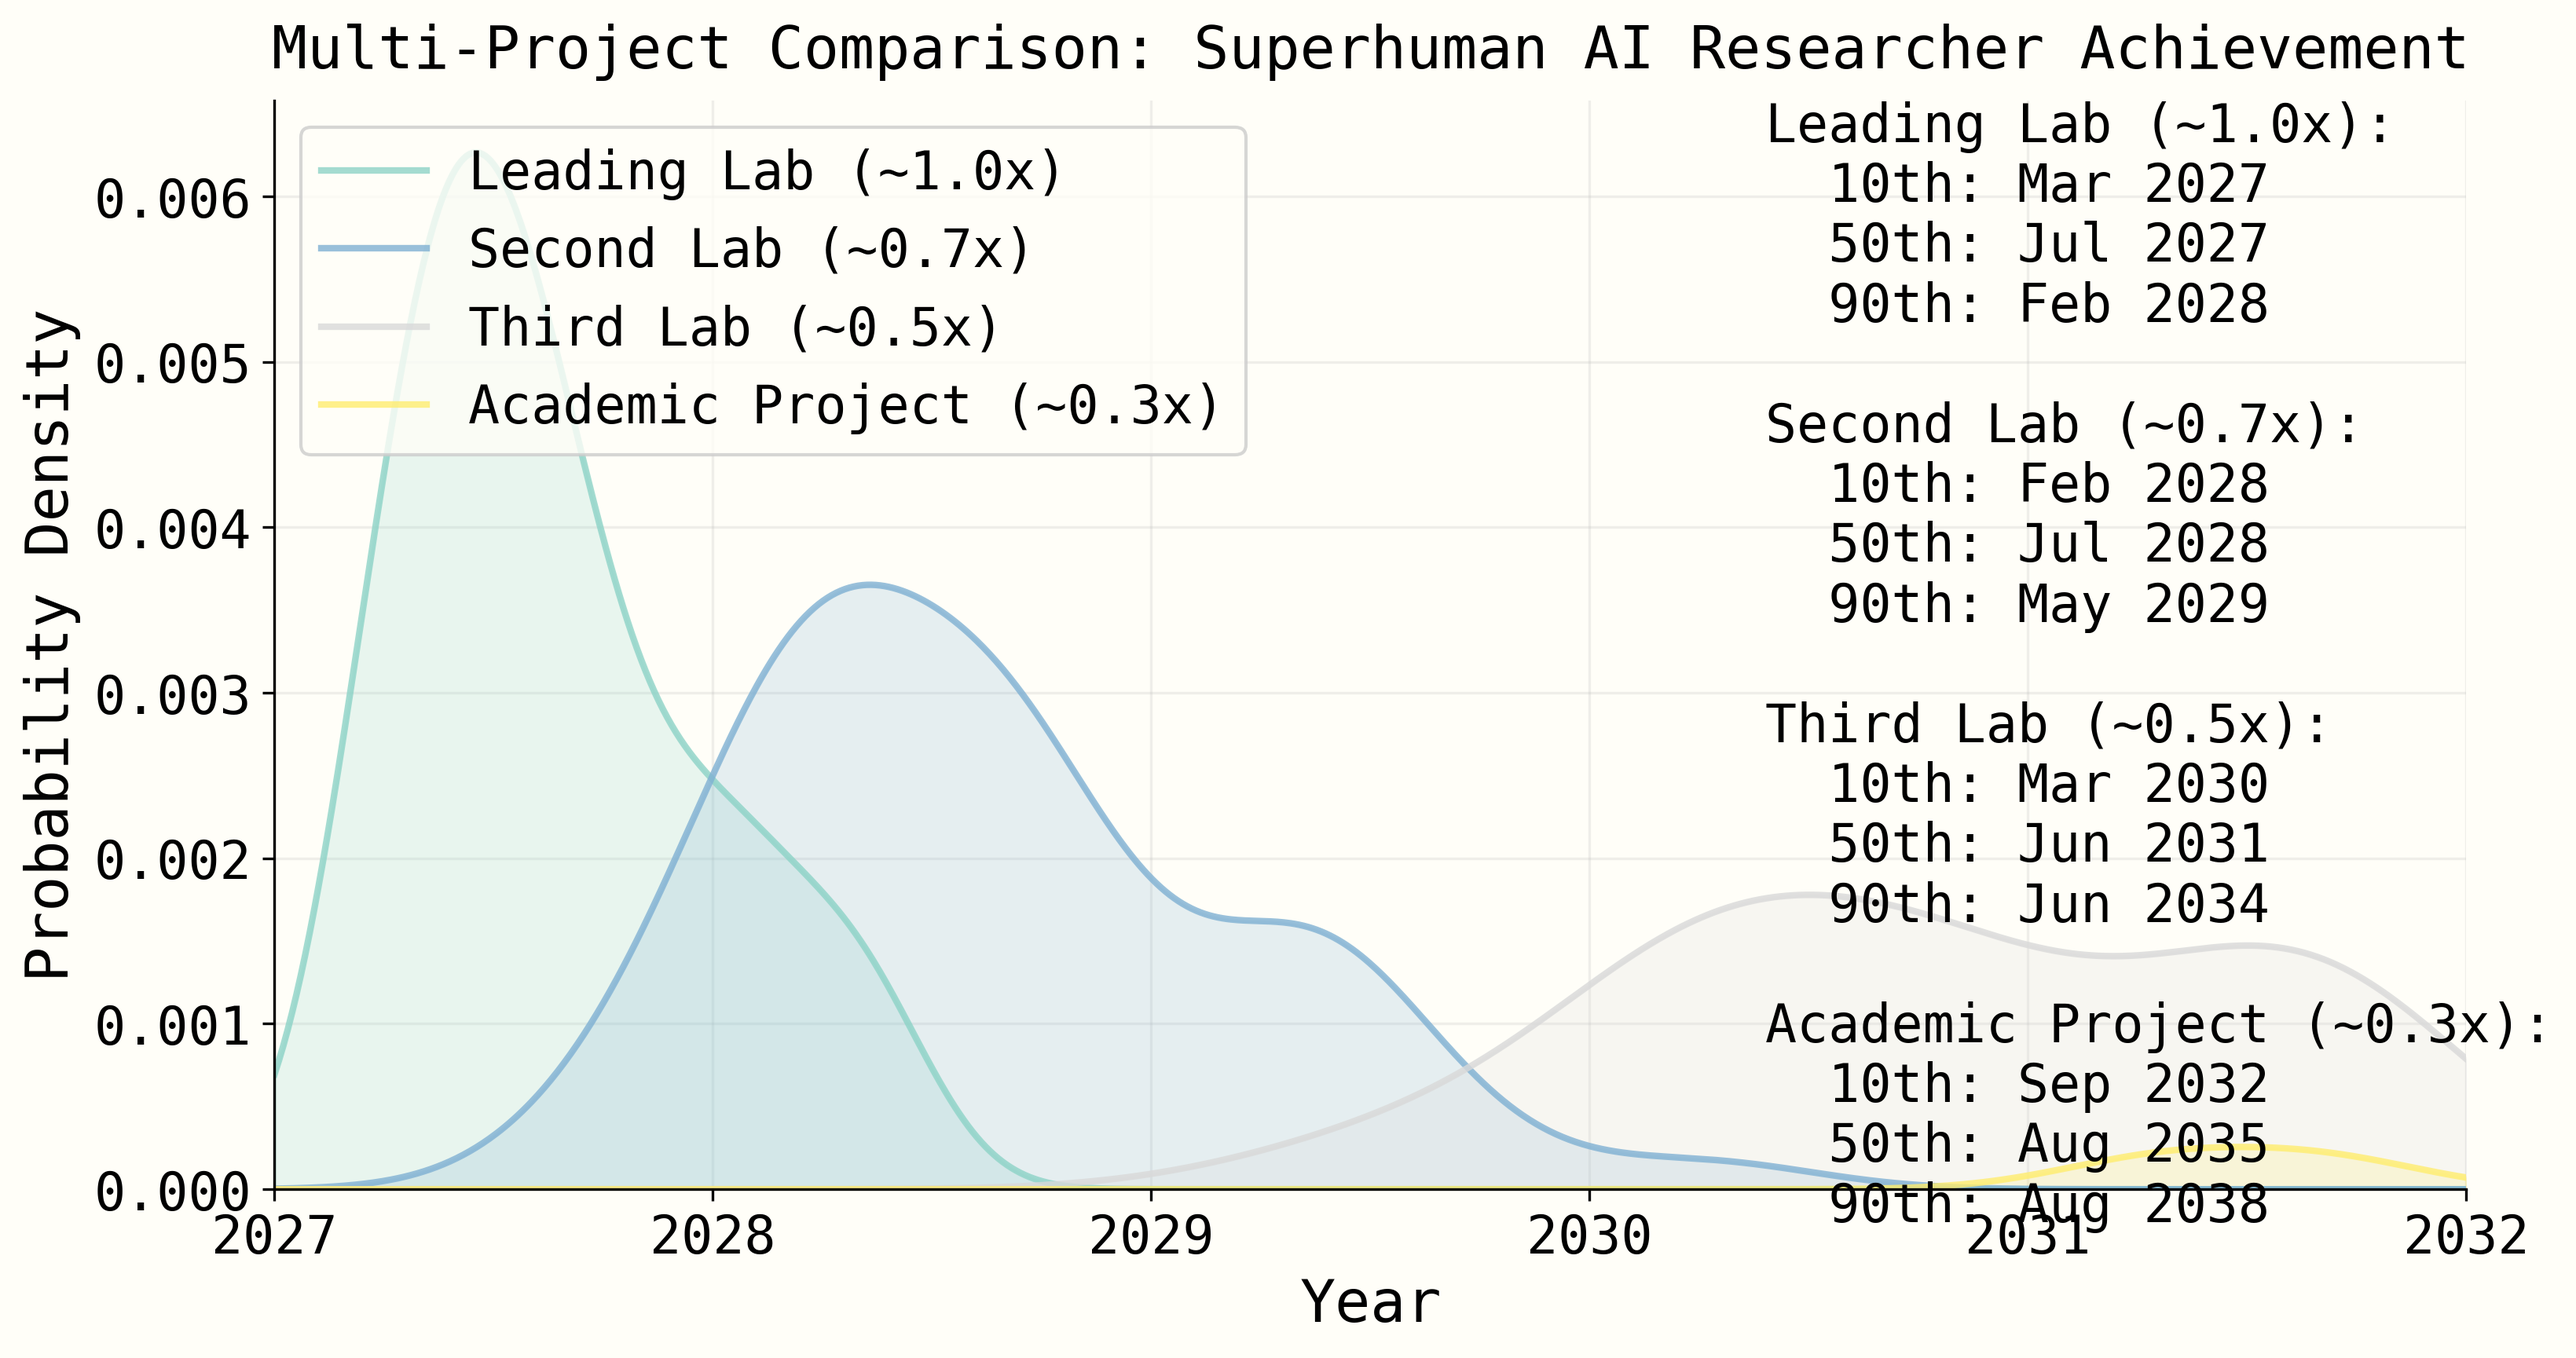
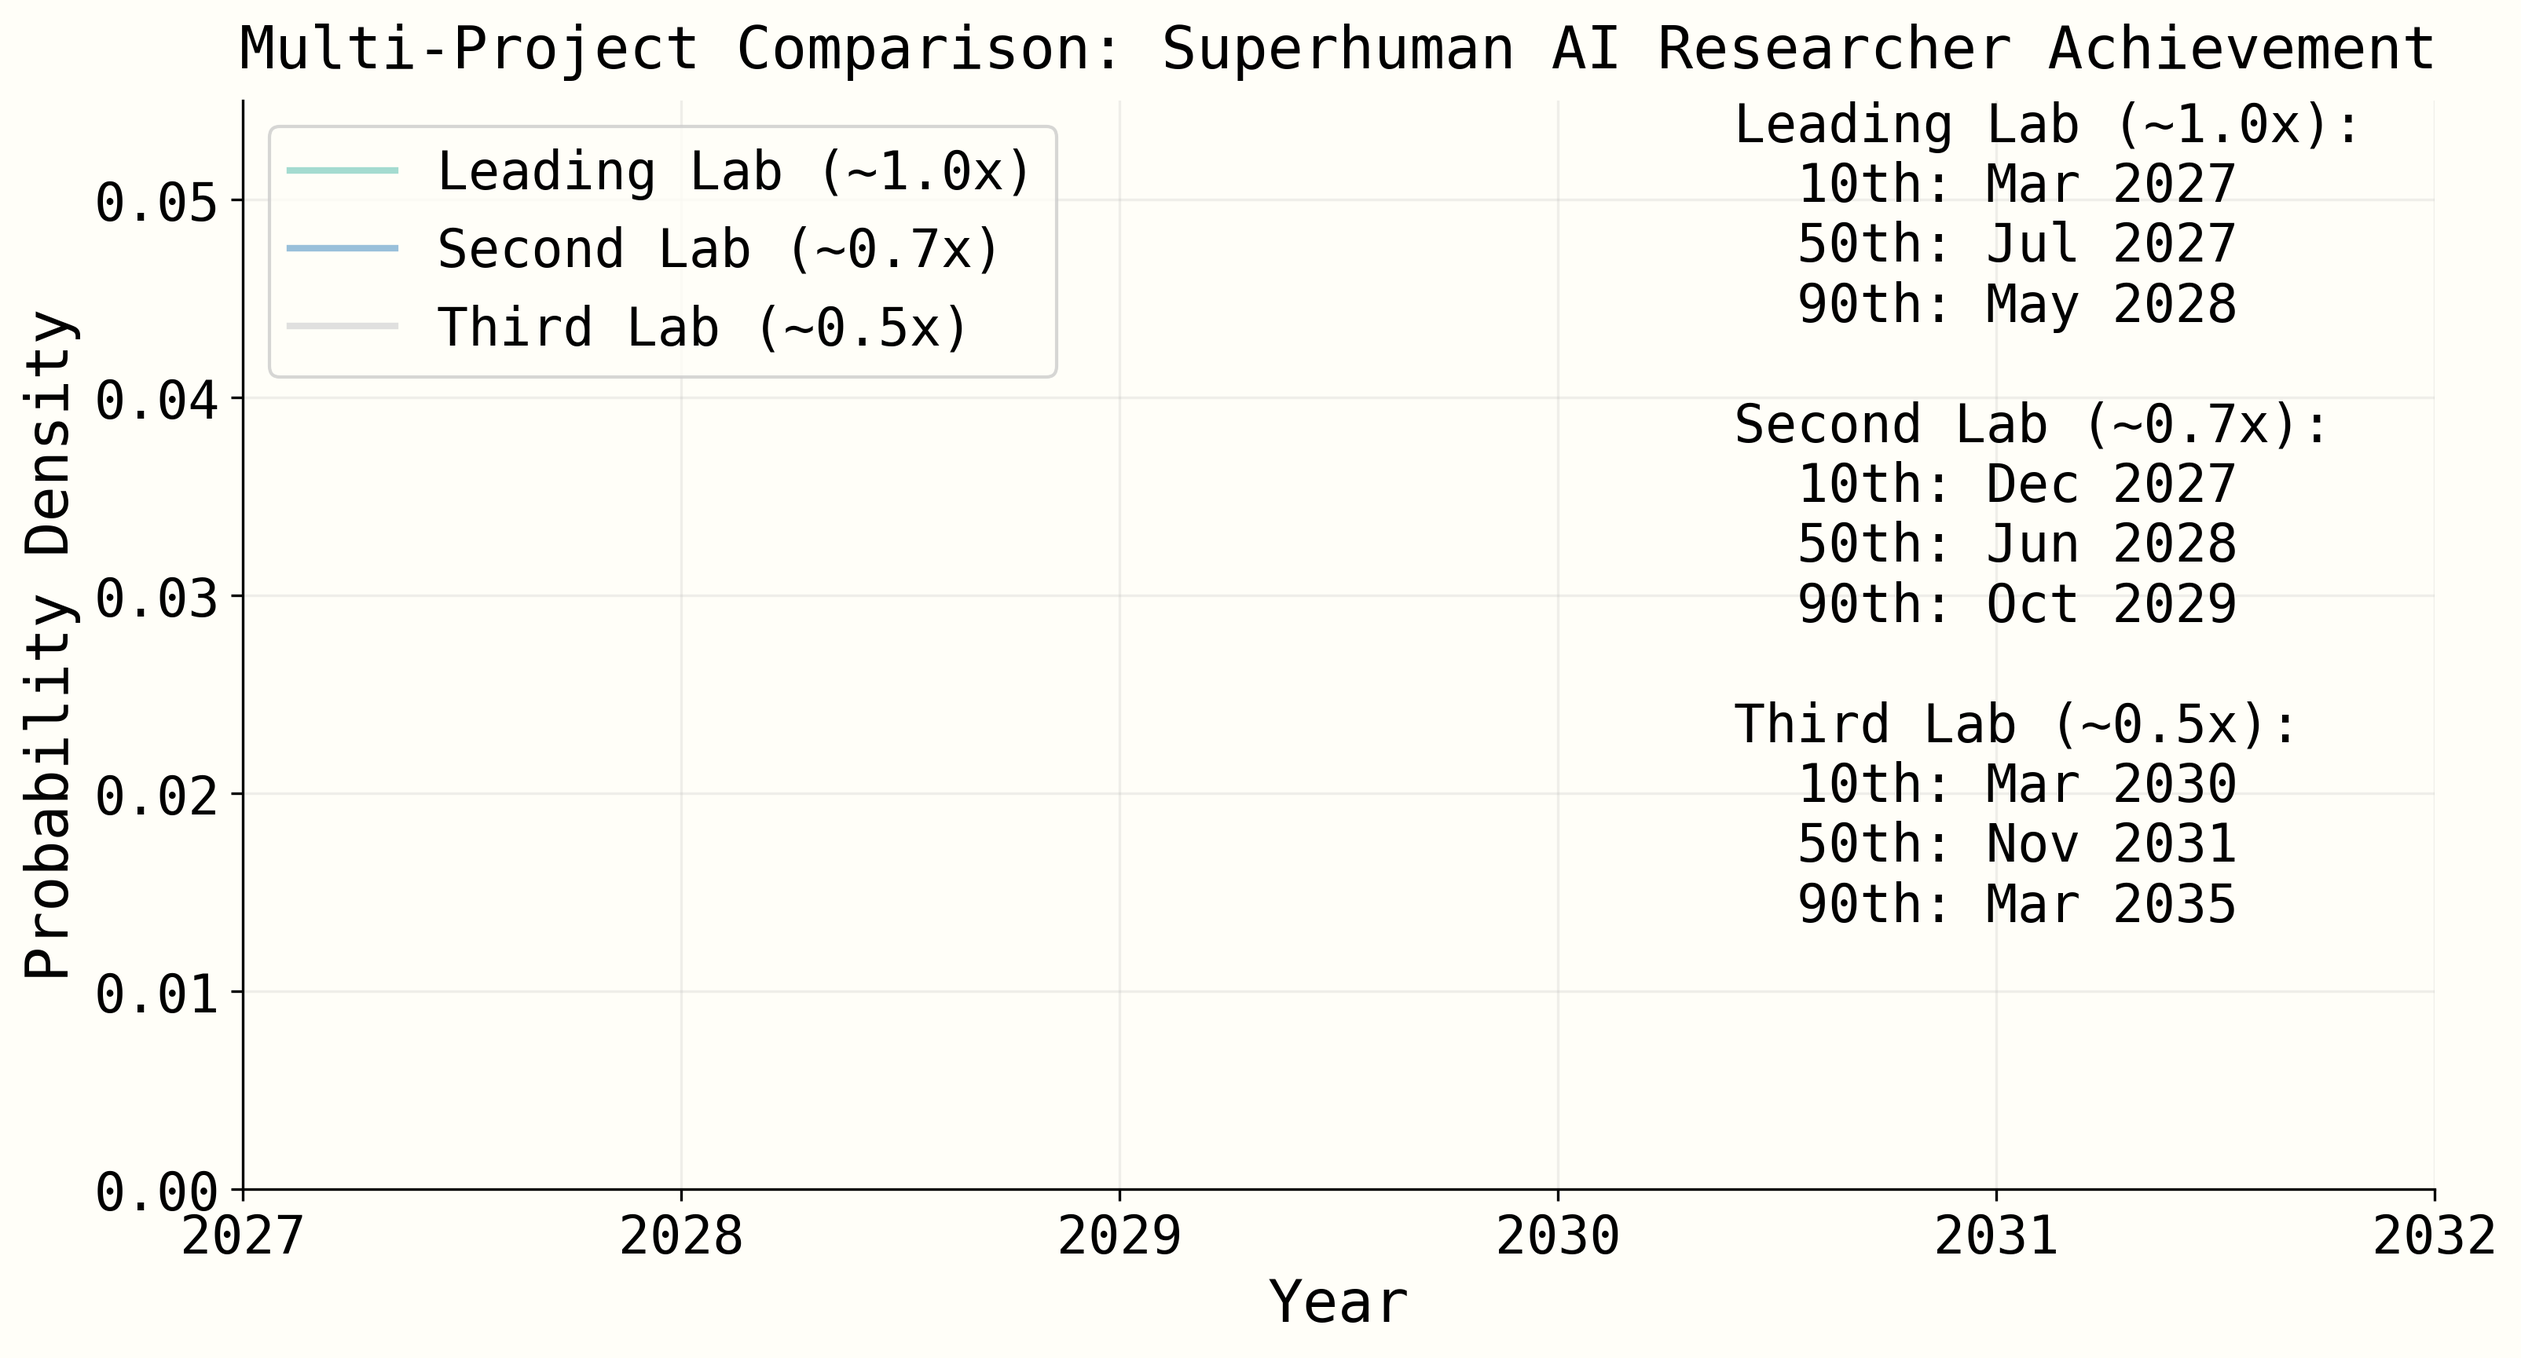
fixes

diff --git a/takeoff/forecasting_takeoff.py b/takeoff/forecasting_takeoff.py
@@ -751,12 +751,18 @@ def create_multi_project_timeline_plot(all_first_milestone_dates: list[list[date
                                 jittered_data.append(d + np.random.normal(0, 0.01))  # Small jitter
                             else:
                                 jittered_data.append(d)
-                        kde = gaussian_kde(jittered_data)
+                        # Check if we have enough distinct values after jittering
+                        if len(set(jittered_data)) > 1:
+                            kde = gaussian_kde(jittered_data)
+                        else:
+                            raise ValueError("Insufficient data variation for KDE")
                     else:
                         kde = gaussian_kde(visible_data)
                     
                     # Create x range for plotting
-                    x_range = np.linspace(start_year, MAX_GRAPH_YEAR, 1000)
+                    max_delay_in_data = max(project_sar_times)
+                    MAX_DELAY = max(2.0, min(max(5, max_delay_in_data * 1.2), 20))  # Ensure at least 2 years range
+                    x_range = np.linspace(0, MAX_DELAY, 1000)
                     density = kde(x_range)
                     
                     # Normalize density - fix division by zero
@@ -793,15 +799,27 @@ def create_multi_project_timeline_plot(all_first_milestone_dates: list[list[date
                         progress_rate = project_params if isinstance(project_params, (int, float)) else 1.0
                         rate_label = f"{progress_rate:.1f}x"
                     
-                    # Create histogram
-                    bins = np.linspace(0, MAX_DELAY, 50)
-                    hist, bin_edges = np.histogram(visible_data, bins=bins, density=True)
-                    bin_centers = (bin_edges[:-1] + bin_edges[1:]) / 2
-                    
-                    # Plot as step function
-                    ax.step(bin_centers, hist, where='mid', color=project_colors[proj_idx], 
-                           label=f"{project_name} ({rate_label})", linewidth=2, alpha=0.8)
-                    ax.fill_between(bin_centers, hist, step='mid', color=project_colors[proj_idx], alpha=0.2)
+                    # Create histogram - fix MAX_DELAY undefined error
+                    if len(visible_data) > 0:
+                        data_min = min(visible_data)
+                        data_max = max(visible_data)
+                        if data_max > data_min:
+                            bins = np.linspace(data_min, data_max, 20)
+                            hist, bin_edges = np.histogram(visible_data, bins=bins, density=True)
+                            bin_centers = (bin_edges[:-1] + bin_edges[1:]) / 2
+                            
+                            # Plot as step function
+                            ax.step(bin_centers, hist, where='mid', color=project_colors[proj_idx], 
+                                   label=f"{project_name} ({rate_label})", linewidth=2, alpha=0.8)
+                            ax.fill_between(bin_centers, hist, step='mid', color=project_colors[proj_idx], alpha=0.2)
+                        else:
+                            # All values are the same, plot a vertical line
+                            ax.axvline(x=data_min, color=project_colors[proj_idx], linestyle='--', linewidth=2,
+                                     alpha=0.8, label=f"{project_name} ({rate_label}) - Consistent")
+                    else:
+                        # No data to plot
+                        print(f"Warning: No data to plot for {project_name}")
+                        continue
                 
                 # Add to stats text
                 if (p90 > 2100):
@@ -993,17 +1011,31 @@ def create_project_delay_plot(all_project_results: list[dict], config: dict, plo
                 # Filter data to reasonable range for visualization (include all data since delays are small)
                 visible_data = delays  # Don't filter small delays out
                 
-                if visible_data and len(visible_data) > 1:
+                if visible_data and len(visible_data) > 10:  # Need enough data for KDE
                     # Calculate KDE on visible data using same approach as multi-project plot
                     try:
-                        # For projects with some variation, use standard KDE
-                        kde = gaussian_kde(visible_data)
+                        # Special case: if most delays are 0, add small jitter for visualization
+                        if len([d for d in visible_data if d == 0]) > len(visible_data) * 0.5:
+                            # Add tiny random jitter to zero values for visualization
+                            jittered_data = []
+                            for d in visible_data:
+                                if d == 0:
+                                    jittered_data.append(d + np.random.normal(0, 0.01))  # Small jitter
+                                else:
+                                    jittered_data.append(d)
+                            # Check if we have enough distinct values after jittering
+                            if len(set(jittered_data)) > 1:
+                                kde = gaussian_kde(jittered_data)
+                            else:
+                                raise ValueError("Insufficient data variation for KDE")
+                        else:
+                            kde = gaussian_kde(visible_data)
                         
-                        # Create x range for plotting (same resolution as multi-project plot)
+                        # Create x range for plotting
                         x_range = np.linspace(0, MAX_DELAY, 1000)
                         density = kde(x_range)
                         
-                        # Normalize density (same approach as multi-project plot) - fix division by zero
+                        # Normalize density - fix division by zero
                         density_sum = np.sum(density)
                         if density_sum > 0:
                             density = density / density_sum * (len(visible_data) / len(delays))
